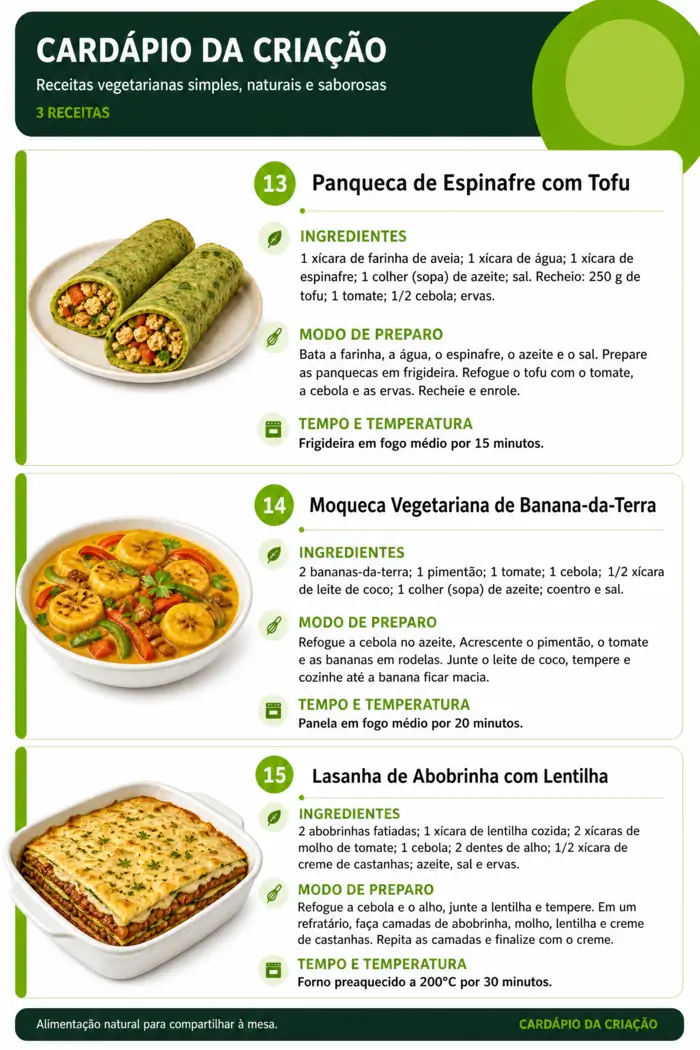
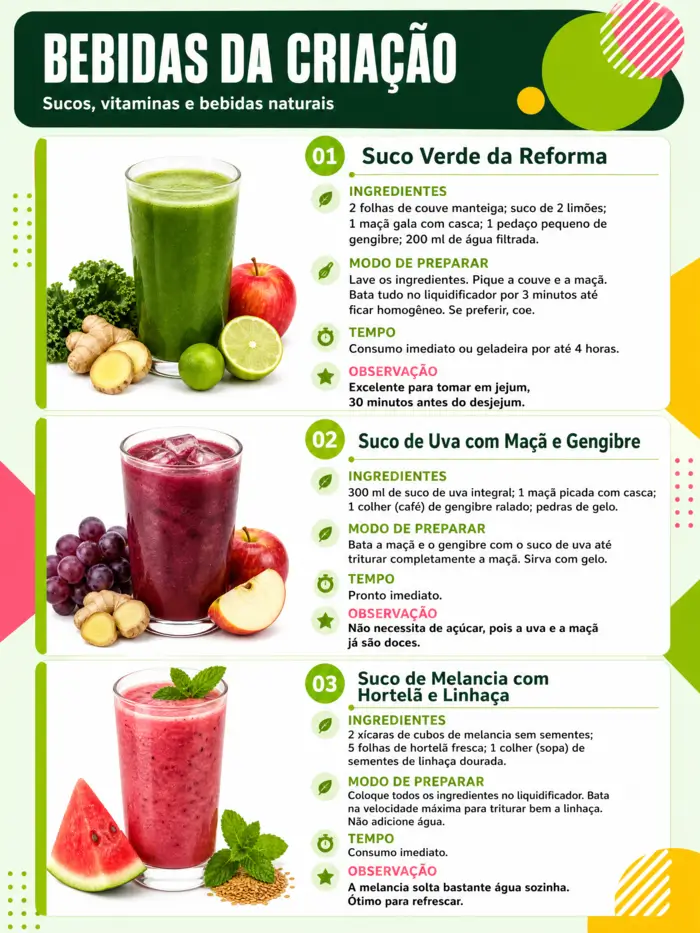
update carrossels

diff --git a/lp/riasd/index.html b/lp/riasd/index.html
@@ -46,8 +46,8 @@
     <section class="navy"><div class="container product-grid"><div class="product-title"><h2 class="section-title">Tudo o que você vai receber no Cardápio da Criação</h2><h3 class="highlight">Cardápio da Criação</h3></div><div class="product-image"><img src="imgs/mockup-principal.webp" alt="Cardápio da Criação" loading="lazy"></div><div class="product-list"><div class="course-panel"><div class="course-panel-head"><i>▶</i><div><h3>O que compõe o Produto Principal</h3><p>Receitas prontas para sua família</p></div></div><div class="course-modules"><article class="course-module"><span class="module-number">📅</span><div class="module-content"><h4>Cardápio de 90 dias</h4><p>Refeições já organizadas dia a dia, pra você parar de decidir na hora o que vai cozinhar e simplesmente seguir o planejamento.</p></div></article><article class="course-module"><span class="module-number">🍽</span><div class="module-content"><h4>Guia de receitas</h4><p>Receitas vegetarianas gostosas e dentro do padrão adventista, prontas pra colocar em prática sem adaptar nada.</p></div></article><article class="course-module"><span class="module-number">📖</span><div class="module-content"><h4>Fichas de receitas de consulta rápida</h4><p>Modo de preparo direto ao ponto, pra consultar na cozinha sem perder tempo procurando informação.</p></div></article><article class="course-module"><span class="module-number">📱🖨</span><div class="module-content"><h4>Versão para celular e para impressão</h4><p>Use do jeito que for mais prático pra sua rotina: no celular, na hora de cozinhar, ou impresso, colado na porta da geladeira.</p></div></article></div></div></div></div></section>
     <section class="darker"><div class="container"><h2 class="section-title">E além do Cardápio da Criação, você ainda recebe estes <span class="highlight">bônus estratégicos</span>:</h2><div class="grid-3">
       <article class="bonus-card"><span class="tag">Bônus 1</span><img src="imgs/Bonus-1.webp" alt="Bônus 1" loading="lazy"><h3>🍰 Sobremesas da Criação — 50 Sobremesas</h3><p>Um livro digital com 50 receitas de sobremesas vegetarianas: bolos, tortas, cookies, doces de frutas e opções especiais pra receber visita ou adoçar o Sábado.</p><span class="bonus-benefit">Você tem sempre uma sobremesa pronta pra qualquer ocasião, sem precisar procurar receita de última hora.</span></article>
-      <article class="bonus-card"><span class="tag">Bônus 2</span><img src="imgs/Bonus-2.webp" alt="Bônus 2" loading="lazy"><h3>🫖 Bebidas da Criação — Guia de Sucos, Vitaminas e Bebidas Naturais</h3><p>Combinações de sucos, vitaminas e bebidas naturais pra variar o café da manhã e outros momentos do dia.</p><span class="bonus-benefit">Você deixa de repetir sempre a mesma bebida e ganha opções prontas pra cada momento da rotina.</span></article>
-      <article class="bonus-card"><span class="tag">Bônus 3</span><img src="imgs/Bonus-3.webp" alt="Bônus 3" loading="lazy"><h3>📚 Princípios de Saúde à Mesa — Guia Baseado nos Escritos de Ellen G. White</h3><p>Um guia de consulta rápida com princípios sobre alimentação, temperança, hábitos e o equilíbrio entre saúde e estilo de vida.</p><span class="bonus-benefit">Você aprofunda sua alimentação dentro dos princípios da sua fé, com uma referência fácil de consultar quando precisar.</span></article>
+      <article class="bonus-card"><span class="tag">Bônus 2</span><img src="imgs/Bonus-2.webp" alt="Bônus 2" loading="lazy"><h3>🫖 20 Bebidas da Criação — Guia de Sucos, Vitaminas e Bebidas Naturais</h3><p>Combinações de sucos, vitaminas e bebidas naturais pra variar o café da manhã e outros momentos do dia.</p><span class="bonus-benefit">Você deixa de repetir sempre a mesma bebida e ganha opções prontas pra cada momento da rotina.</span></article>
+      <article class="bonus-card"><span class="tag">Bônus 3</span><img src="imgs/Bonus-3.webp" alt="Bônus 3" loading="lazy"><h3>📚 20 Princípios de Saúde à Mesa — Guia Baseado nos Escritos de Ellen G. White</h3><p>Um guia de consulta rápida com princípios sobre alimentação, temperança, hábitos e o equilíbrio entre saúde e estilo de vida.</p><span class="bonus-benefit">Você aprofunda sua alimentação dentro dos princípios da sua fé, com uma referência fácil de consultar quando precisar.</span></article>
       <article class="bonus-card"><span class="tag">Bônus 4</span><img src="imgs/Bonus-4.webp" alt="Bônus 4" loading="lazy"><h3>🌿 Horta e Ervas em Casa — Guia de Cultivo para Iniciantes</h3><p>Um guia simples pra começar a cultivar ervas, temperos e hortaliças mesmo em espaços pequenos: vasos, iluminação, rega e colheita.</p><span class="bonus-benefit">Você tem tempero fresco à mão, direto da sua casa, sem depender só do mercado.</span></article>
     </div></div></section>
     <section id="planos" class="light center"><div class="container"><h2 class="section-title">Escolha a melhor opção para você:</h2><p class="subheadline" style="margin-bottom:55px">Ambas vêm com garantia de 7 dias</p><div class="plans"><article class="plan"><h3 class="plan-title">PLANO BÁSICO</h3><img src="imgs/plano-basico.webp" alt="Plano Básico" loading="lazy"><strong>Cardápio da Criação: 90 dias de alimentação Saudável</strong><ul class="list plan-features"><li>✅ Cardápio da Criação: 90 dias de alimentação Saudável</li><li>🖨 Pronto para Imprimir</li><li>🧠 Revisão Visual Estratégica</li><li>⚡ Acesso Imediato</li><li>📝 Formato PDF</li><li>💎 Acesso Vitalício</li><li>🛡 Garantia de 7 dias</li></ul><p class="old-price">De R$ 179,00 por:</p><p class="price">R$ 17,90</p><p class="installments">ou 3x de R$ 6,39 no cartão</p><p style="margin:28px 0"><a class="btn" href="https://pay.hotmart.com/P107172177Y?off=dk9hmme2">QUERO O BÁSICO</a></p><img src="imgs/pagamento-seguro.webp" alt="Pagamento seguro" loading="lazy"></article><div class="mobile-offer">Atenção: Temos uma oferta ainda mais vantajosa para você! Veja logo abaixo.<div class="arrow">▼</div></div><article class="plan complete"><span class="badge">MAIS VENDIDO 🔥</span><h3 class="plan-title">PLANO COMPLETO</h3><p class="plan-sub">✨ TODOS OS BÔNUS INCLUSOS</p><img src="imgs/mockup-principal.webp" alt="Plano Completo" loading="lazy"><p class="plan-sub">Todos Materiais (Recebimento Imediato)</p><strong>Cardápio da Criação - Completo</strong><ul class="list plan-features"><li>✅ Cardápio da Criação: 90 dias de alimentação Saudável</li><li>🍰 Sobremesas da Criação — 50 Sobremesas</li><li>🧩 Bebidas da Criação</li><li>📚 Princípios de Saúde à Mesa</li><li>🌿 Horta e Ervas em Casa</li><li>🖨 Pronto para Imprimir</li><li>🧠 Revisão Visual Estratégica</li><li>⚡ Acesso Imediato</li><li>📝 Formato PDF</li><li>💎 Acesso Vitalício</li><li>🛡 Garantia de 7 dias</li></ul><p class="old-price">De R$ 279,00 por:</p><p class="price">R$ 27,90</p><p class="installments">ou 6x de R$ 5,24 no cartão</p><p style="margin:28px 0"><a class="btn" href="https://pay.hotmart.com/P107172177Y?off=5e2mmhpf">QUERO O COMPLETO</a></p><img src="imgs/pagamento-seguro.webp" alt="Pagamento seguro" loading="lazy"></article></div><p class="highlight" style="margin-top:48px">APROVEITE AGORA: Você não vai encontrar esse preço depois!</p></div></section>
